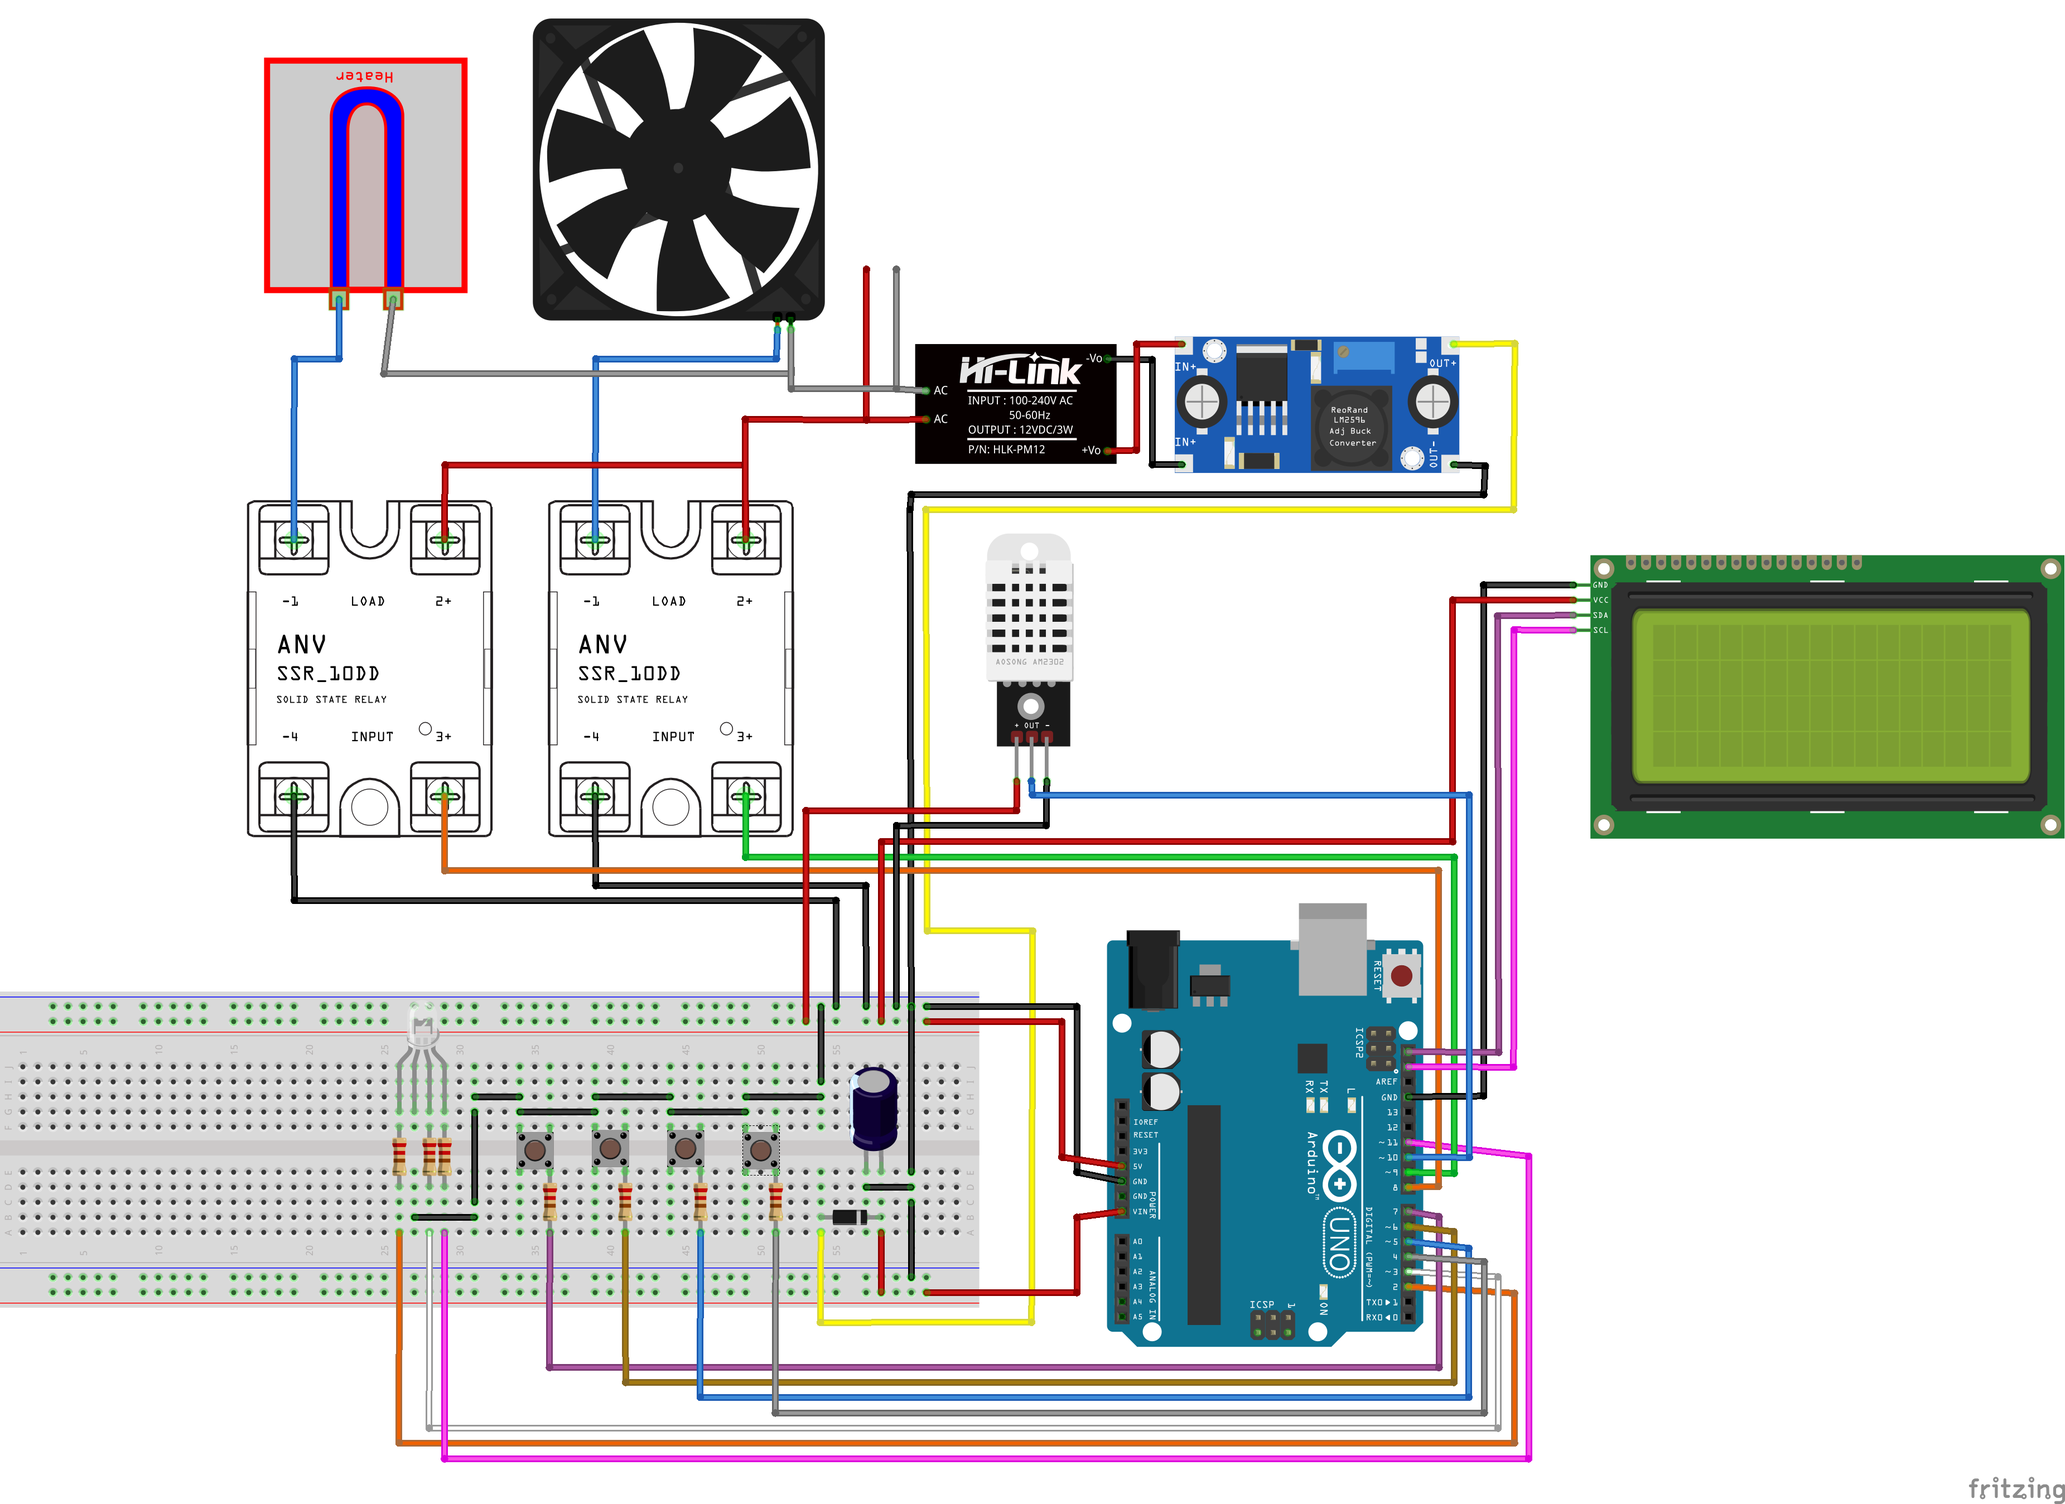
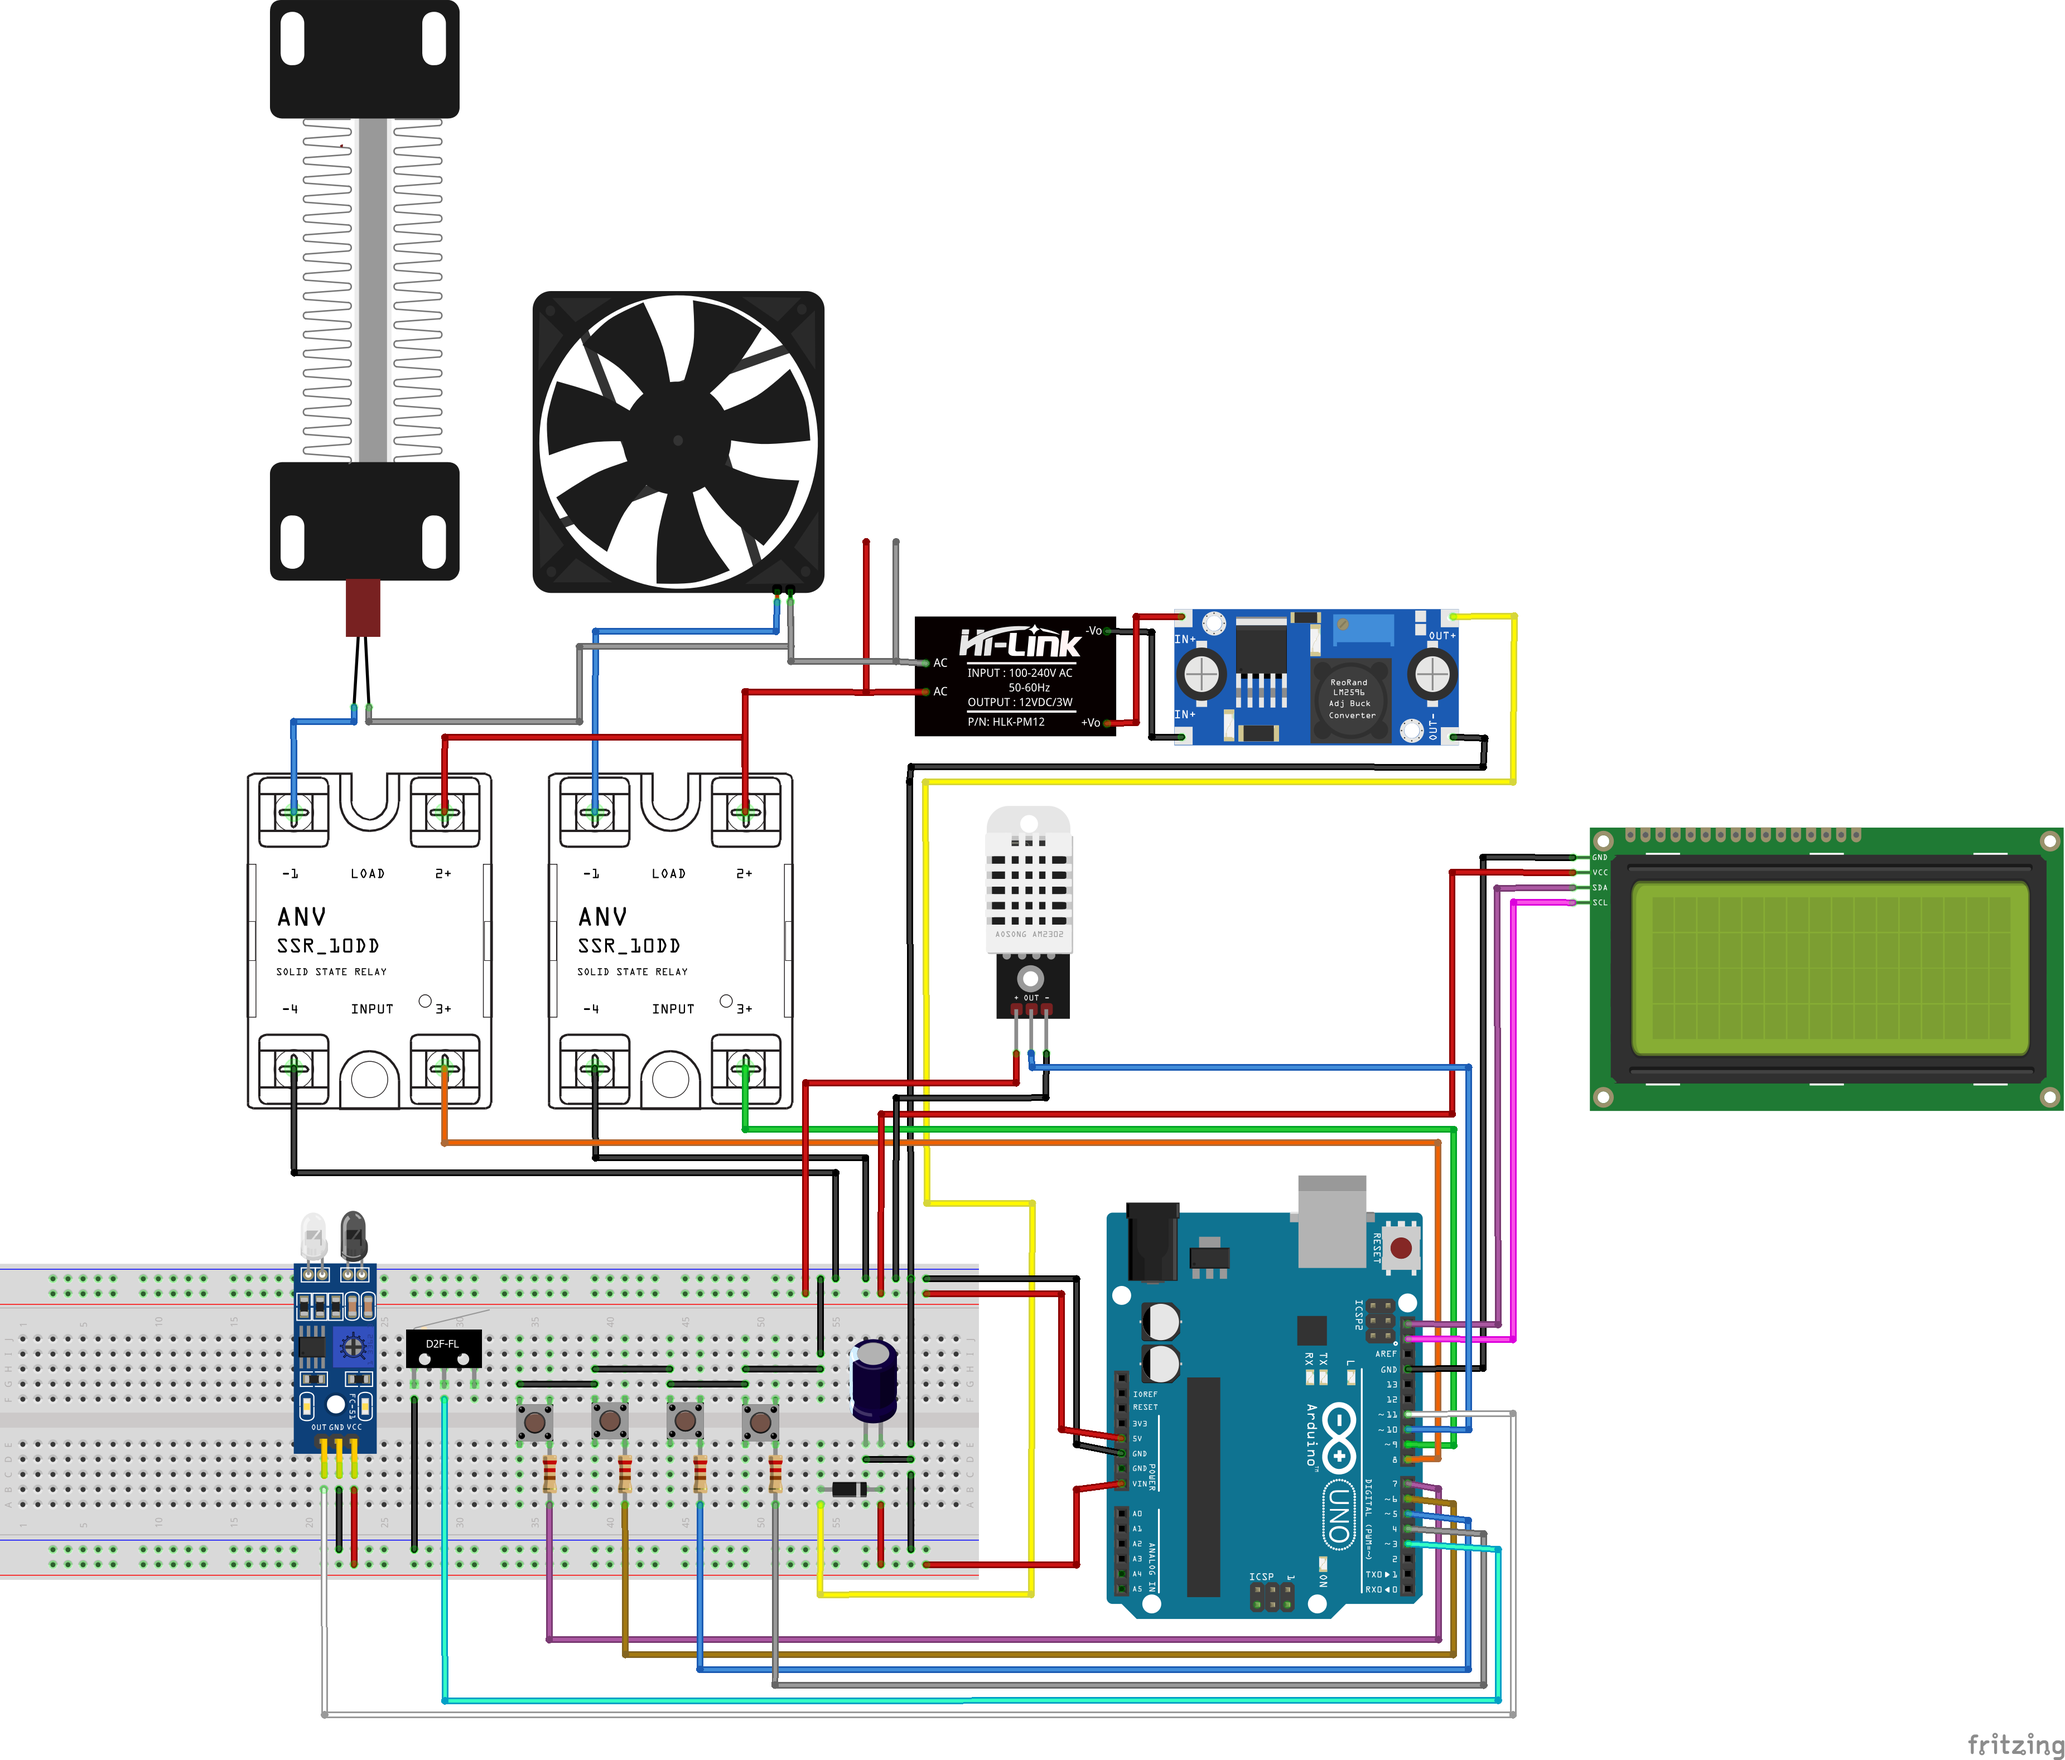
Mark project as complete with wiring diagram finalization
- Updated version to 1.1.0 to reflect new auto-start functionality
- Changed build status to 'Complete'
- Added project completion status banner
- Marked wiring diagram section as complete
- Added completion note for comprehensive wiring diagram

Project Status:  COMPLETE
- Core functionality: Implemented
- IR sensor integration: Complete
- Limit switch safety: Complete
- Auto-start system: Complete
- Wiring diagram: Complete
- Documentation: Complete

Ready for prototype assembly and testing!

diff --git a/README.md b/README.md
@@ -5,10 +5,12 @@
 [![Arduino](https://img.shields.io/badge/Arduino-00979D?style=for-the-badge&logo=Arduino&logoColor=white)](https://www.arduino.cc/)
 [![C++](https://img.shields.io/badge/C%2B%2B-00599C?style=for-the-badge&logo=c%2B%2B&logoColor=white)](https://isocpp.org/)
 [![License: MIT](https://img.shields.io/badge/License-MIT-yellow.svg?style=for-the-badge)](https://opensource.org/licenses/MIT)
-[![Build Status](https://img.shields.io/badge/Build-Passing-brightgreen.svg?style=for-the-badge)](https://github.com/qppd/Umbrella-Holder)
-[![Version](https://img.shields.io/badge/Version-1.0.0-blue.svg?style=for-the-badge)](https://github.com/qppd/Umbrella-Holder/releases)
+[![Build Status](https://img.shields.io/badge/Build-Complete-brightgreen.svg?style=for-the-badge)](https://github.com/qppd/Umbrella-Holder)
+[![Version](https://img.shields.io/badge/Version-1.1.0-blue.svg?style=for-the-badge)](https://github.com/qppd/Umbrella-Holder/releases)
 
 **An intelligent microcontroller-based dryer for up to 6 umbrellas, featuring PID-controlled heating, automated blower operation via solid state relays, and smart auto-start functionality with IR sensor and door safety interlocks. Designed for reliability and ease of use in public or private spaces.**
+
+> **🎉 Project Status**: Core functionality complete with comprehensive wiring diagram and documentation. Ready for prototype assembly!
 
 [🚀 Quick Start](#quick-start) • [📖 Documentation](#documentation) • [🛠 Hardware](#hardware-requirements) • [💡 Features](#features) • [🎯 Usage](#usage-guide) • [🤝 Contributing](#contributing)
 
@@ -1803,6 +1805,7 @@ arduino-cli lib install "LiquidCrystal I2C"
 
 ## 🔌 Wiring Diagram
 
+> **✅ Complete**: Comprehensive wiring diagram with all components including IR sensor and limit switch integration.
 
 <div align="center">
    <img src="diagram/Umbrella_Dryer_Wiring_Diagram.png" alt="Umbrella Dryer Wiring Diagram" width="600"/>
